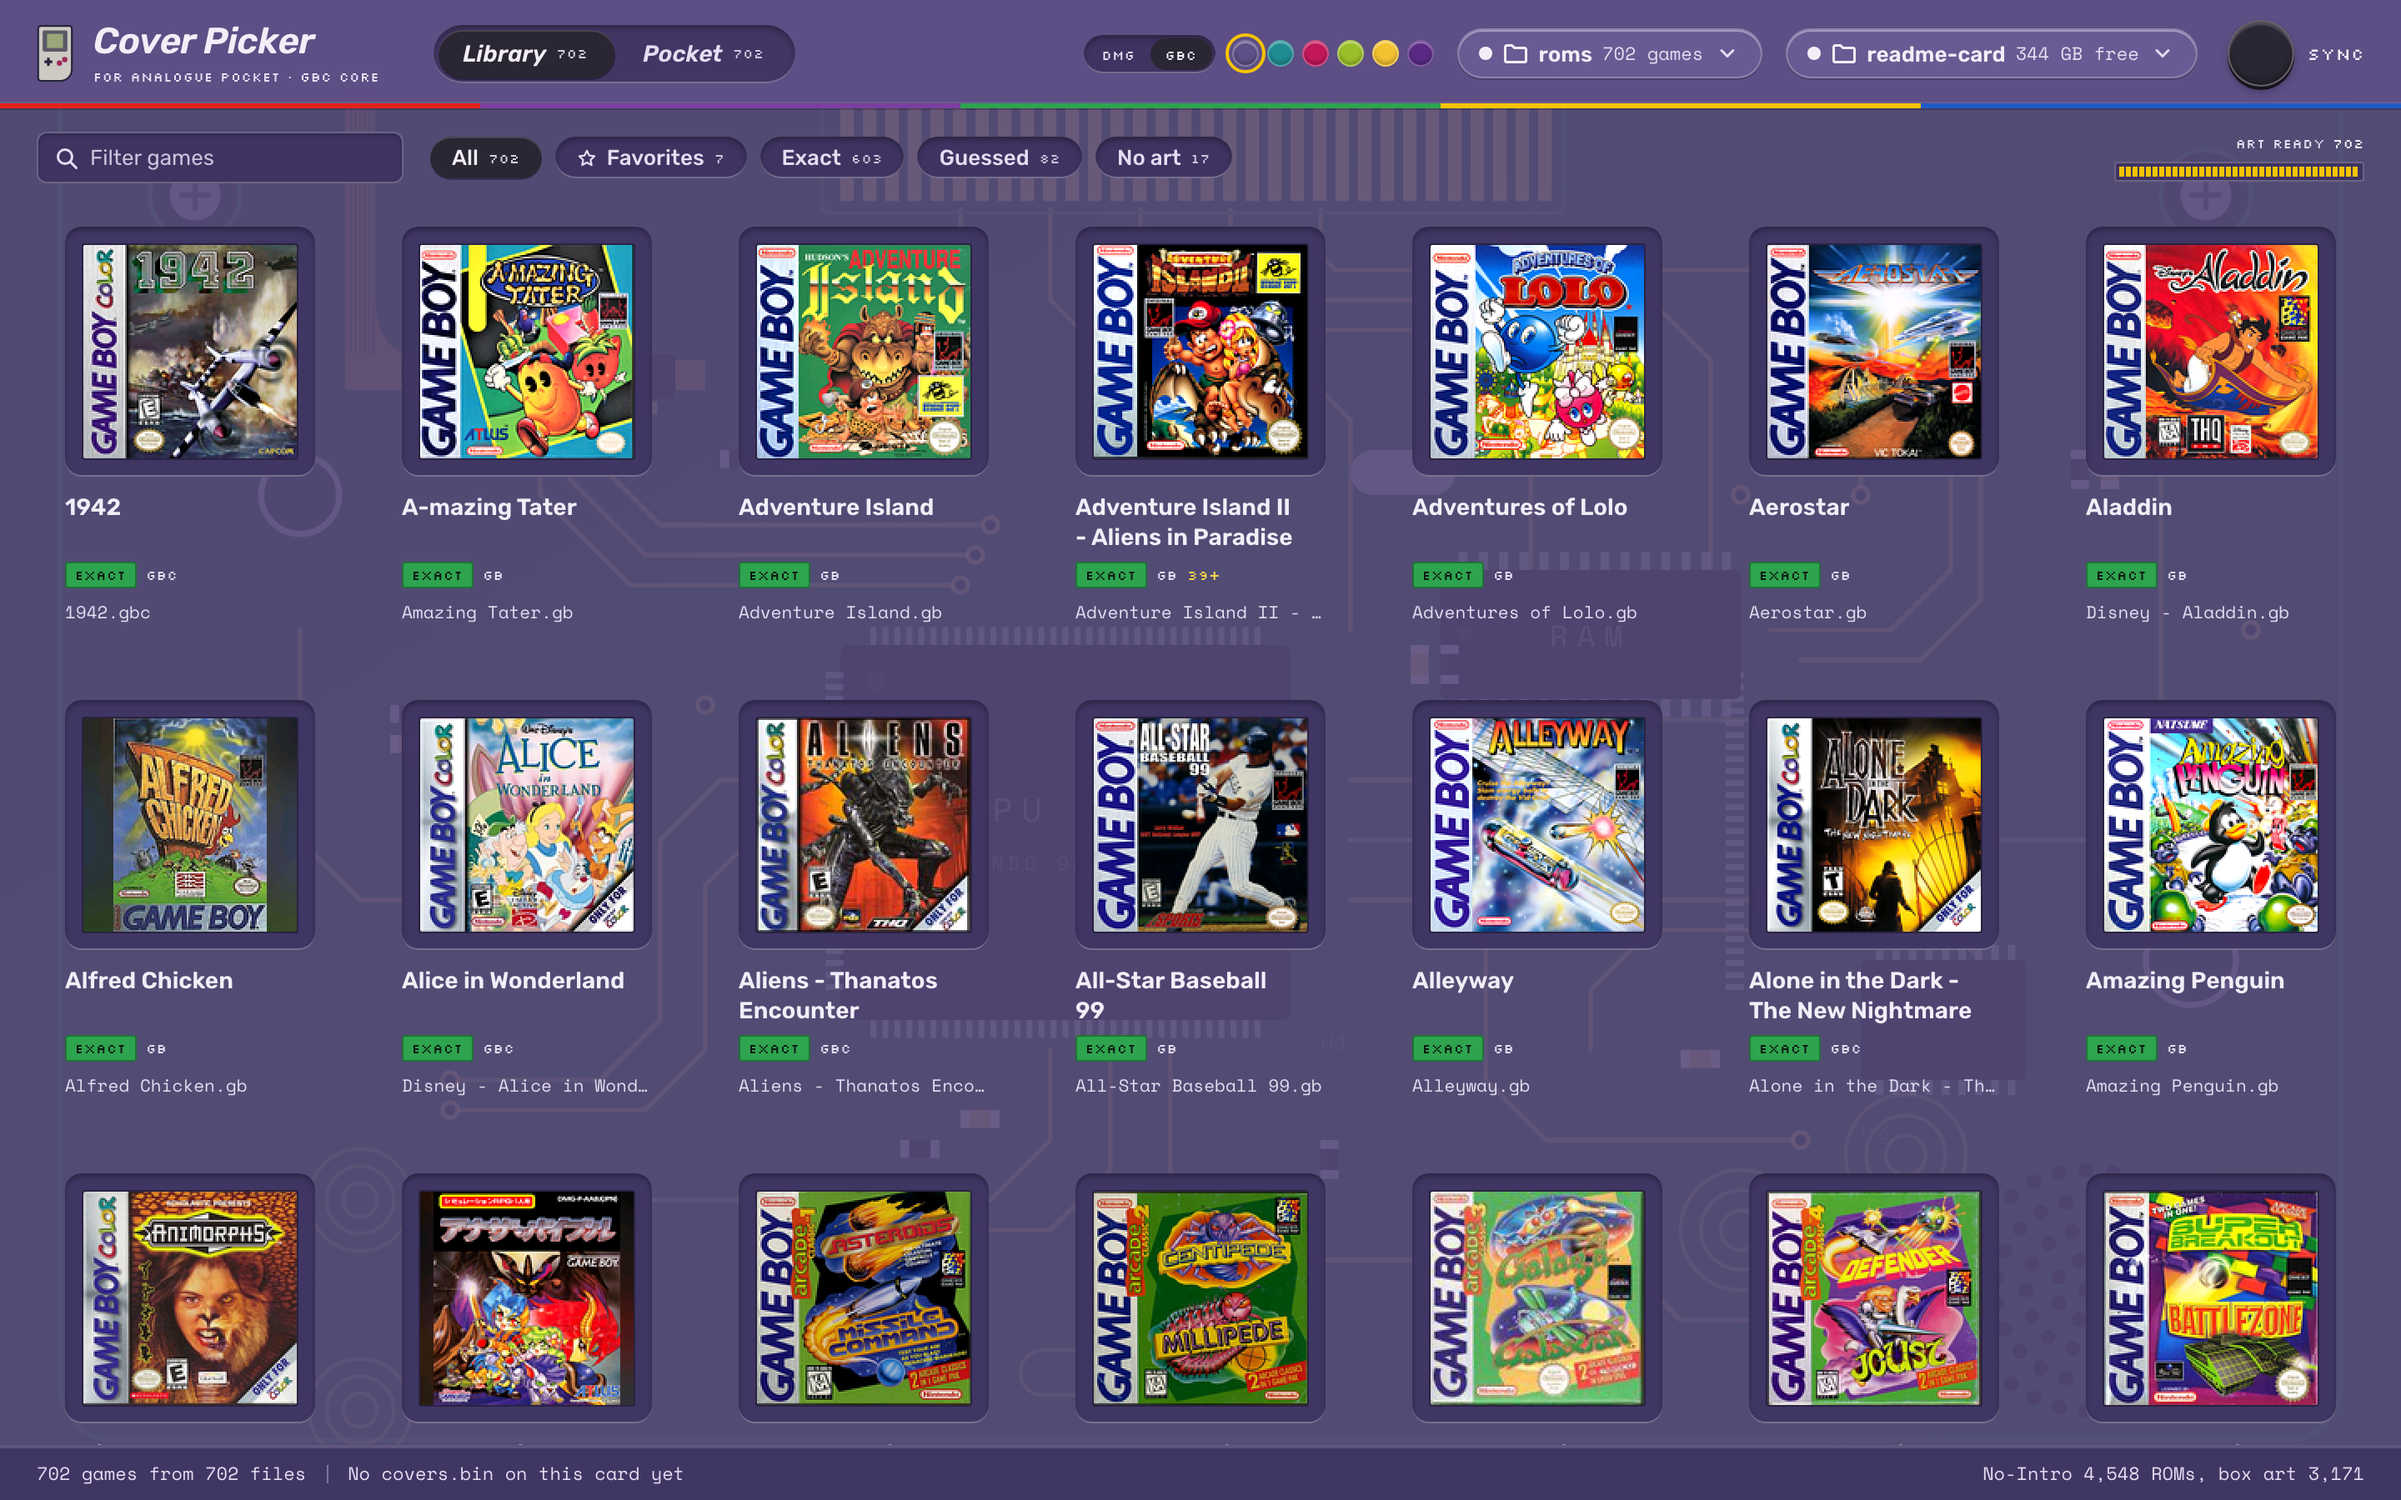
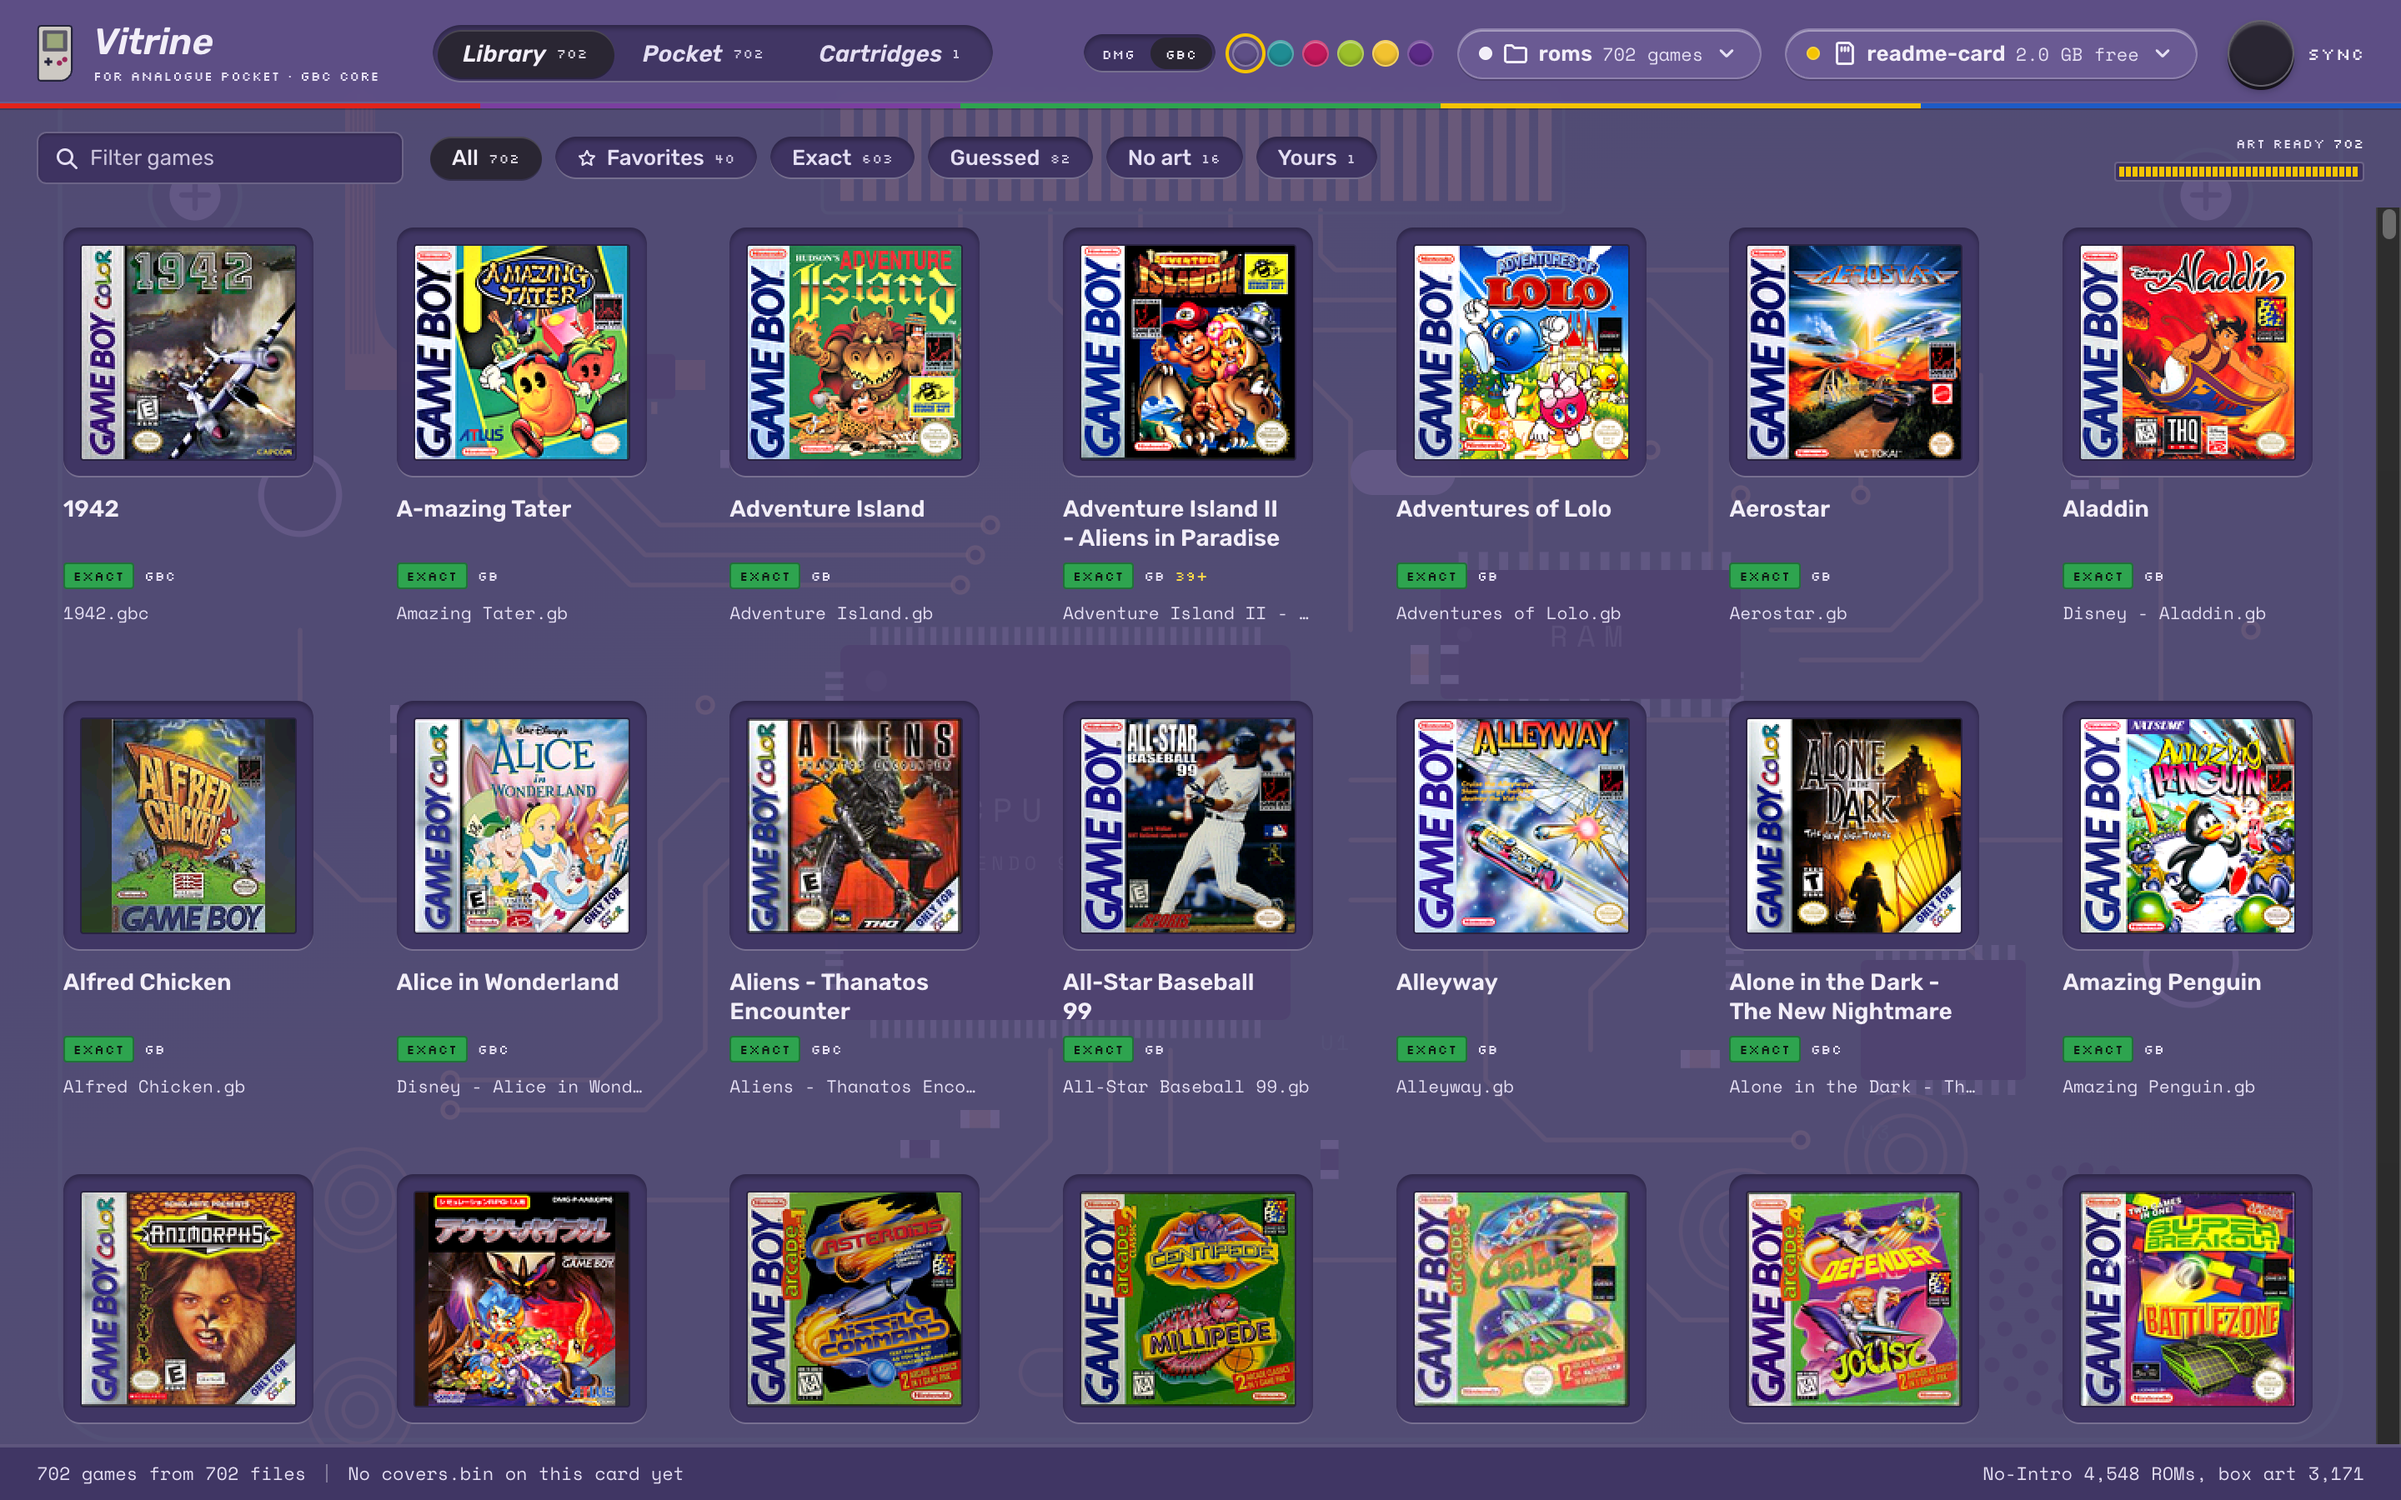
Companion app renamed to Vitrine
The app's header, tab title, startup line and README now say Vitrine,
and the core-detection message names the Vitrine core. The six README
screenshots are retaken at 2880x1800 with the current app (Cartridges
tab, v7 pack in the sync plan), the README hero carries the new library
shot, and the site's app image keeps the header so the name shows in
the window frame.

Kept on purpose: the data and cache folders under ~/Library (renaming
them would orphan existing choices and pack backups without a
migration) and cover-picker.json on the card (existing cards keep
syncing).

diff --git a/companion/server/src/core.ts b/companion/server/src/core.ts
@@ -73,7 +73,7 @@ export function choosePack(card: string | null, games: number): PackChoice {
   const reason = !card
     ? `No card yet. Today's core shows ${MAX_GAMES} games.`
     : !core.found
-      ? `No cover picker core found in ${CORE_DIR.split(path.sep).join('/')}. Writing the ${MAX_GAMES} game format today's core reads.`
+      ? `No Vitrine core found in ${CORE_DIR.split(path.sep).join('/')}. Writing the ${MAX_GAMES} game format today's core reads.`
       : `This core (${core.version ?? 'unknown version'}) shows ${MAX_GAMES} games. Install build 17 to see all.`;
   return { version: 6, limit: MAX_GAMES, core, streaming: false, reason };
 }

diff --git a/companion/server/src/index.ts b/companion/server/src/index.ts
@@ -7,7 +7,7 @@ const isProd = process.env.NODE_ENV === 'production';
 
 serve({ fetch: app.fetch, port: PORT, hostname: '127.0.0.1' }, (info) => {
   const url = `http://localhost:${info.port}`;
-  console.log(`\n  GBC Cover Companion is running at ${url}`);
+  console.log(`\n  Vitrine is running at ${url}`);
   if (isProd && !process.env.NO_OPEN) {
     import('node:child_process').then(({ spawn }) => spawn('open', [url], { stdio: 'ignore', detached: true }).unref());
   } else if (!isProd) {

diff --git a/companion/web/index.html b/companion/web/index.html
@@ -4,7 +4,7 @@
     <meta charset="UTF-8" />
     <meta name="viewport" content="width=device-width, initial-scale=1.0" />
     <meta name="color-scheme" content="light" />
-    <title>Cover Picker</title>
+    <title>Vitrine</title>
     <link rel="icon" href="/icon.svg" type="image/svg+xml" />
     <link rel="preconnect" href="https://fonts.googleapis.com" />
     <link rel="preconnect" href="https://fonts.gstatic.com" crossorigin />

diff --git a/companion/server/test/format.test.ts b/companion/server/test/format.test.ts
@@ -73,7 +73,7 @@ test('format choice: cover1 gives v6, cover2 and up give v7, missing or unreadab
   c = choosePack(card, 702);
   assert.equal(c.version, 6);
   assert.equal(c.core.found, false);
-  assert.match(c.reason, /No cover picker core found/);
+  assert.match(c.reason, /No Vitrine core found/);
 
   setCore(card, null, '{ not json');
   assert.equal(readCore(card).error !== undefined, true);

diff --git a/companion/web/src/App.tsx b/companion/web/src/App.tsx
@@ -403,7 +403,7 @@ export function App() {
         <div className="brand">
           <img src="/icon.svg" alt="" width={22} height={34} />
           <div>
-            <div className="brand-name">Cover Picker</div>
+            <div className="brand-name">Vitrine</div>
             <div className="brand-sub">For Analogue Pocket · GBC core</div>
           </div>
         </div>

diff --git a/companion/web/src/styles.css b/companion/web/src/styles.css
@@ -1,4 +1,4 @@
-/* Cover Picker themes.
+/* Vitrine companion themes.
    Every color comes from the custom properties below. Two themes:
    - dmg: the original Game Boy. Warm gray plastic, navy ink, berry buttons, two bezel
      stripes, and the big bottom-right curve of the shell on large containers.

diff --git a/tools/build_site.py b/tools/build_site.py
@@ -131,7 +131,7 @@ def stills():
     cover_wall(p).save(os.path.join(OUT, 'wall.webp'), 'WEBP', quality=82, method=6)
     og_image(vit).save(os.path.join(OUT, 'og.png'), optimize=True)
     open(os.path.join(OUT, 'favicon.svg'), 'w').write(FAVICON)
-    app = Image.open(os.path.join(REPO, 'docs', 'images', 'companion-library.png')).convert('RGB').crop((0, 150, 2880, 1330))
+    app = Image.open(os.path.join(REPO, 'docs', 'images', 'companion-library.png')).convert('RGB').crop((0, 0, 2880, 1180))
     app.resize((1600, round(1600 * app.height / app.width)), Image.LANCZOS).save(os.path.join(OUT, 'app.jpg'), quality=86, optimize=True)
     pause = Image.open(os.path.join(REPO, 'docs', 'images', 'pause-home.png')).convert('RGB')
     pause.resize((1280, 1152), Image.NEAREST).save(os.path.join(OUT, 'pause.webp'), 'WEBP', quality=90, method=6)

diff --git a/README.md b/README.md
@@ -68,8 +68,8 @@ R is still fast forward. In game, Select and X are left alone because games use 
     <td width="50%"><img src="docs/images/companion-pocket.png" alt="Pocket view: favorites first, then everything else A to Z"></td>
   </tr>
   <tr>
-    <td><img src="docs/images/companion-picker.png" alt="Cover picker with alternative box art"></td>
-    <td><img src="docs/images/companion-sync.png" alt="Sync plan with each save matched to its ROM"></td>
+    <td><img src="docs/images/companion-picker.png" alt="Choosing a cover from the alternative box art"></td>
+    <td><img src="docs/images/companion-sync.png" alt="Sync plan: what gets copied, the pack, and what is never touched"></td>
   </tr>
   <tr>
     <td><img src="docs/images/companion-gbc.png" alt="Game Boy Color theme, Atomic Purple shell over the board"></td>

diff --git a/companion/README.md b/companion/README.md
@@ -1,7 +1,7 @@
-# GBC Cover Companion
+# Vitrine Companion
 
 A Mac app that puts your Game Boy library on the Analogue Pocket with box art, for the
-GBC cover picker core. You point it at the folder with your ROMs. It names each one,
+Vitrine core. You point it at the folder with your ROMs. It names each one,
 finds its box art, lets you star favorites and fix anything it got wrong, then syncs
 every game to the SD card and writes `covers.bin`.
 
